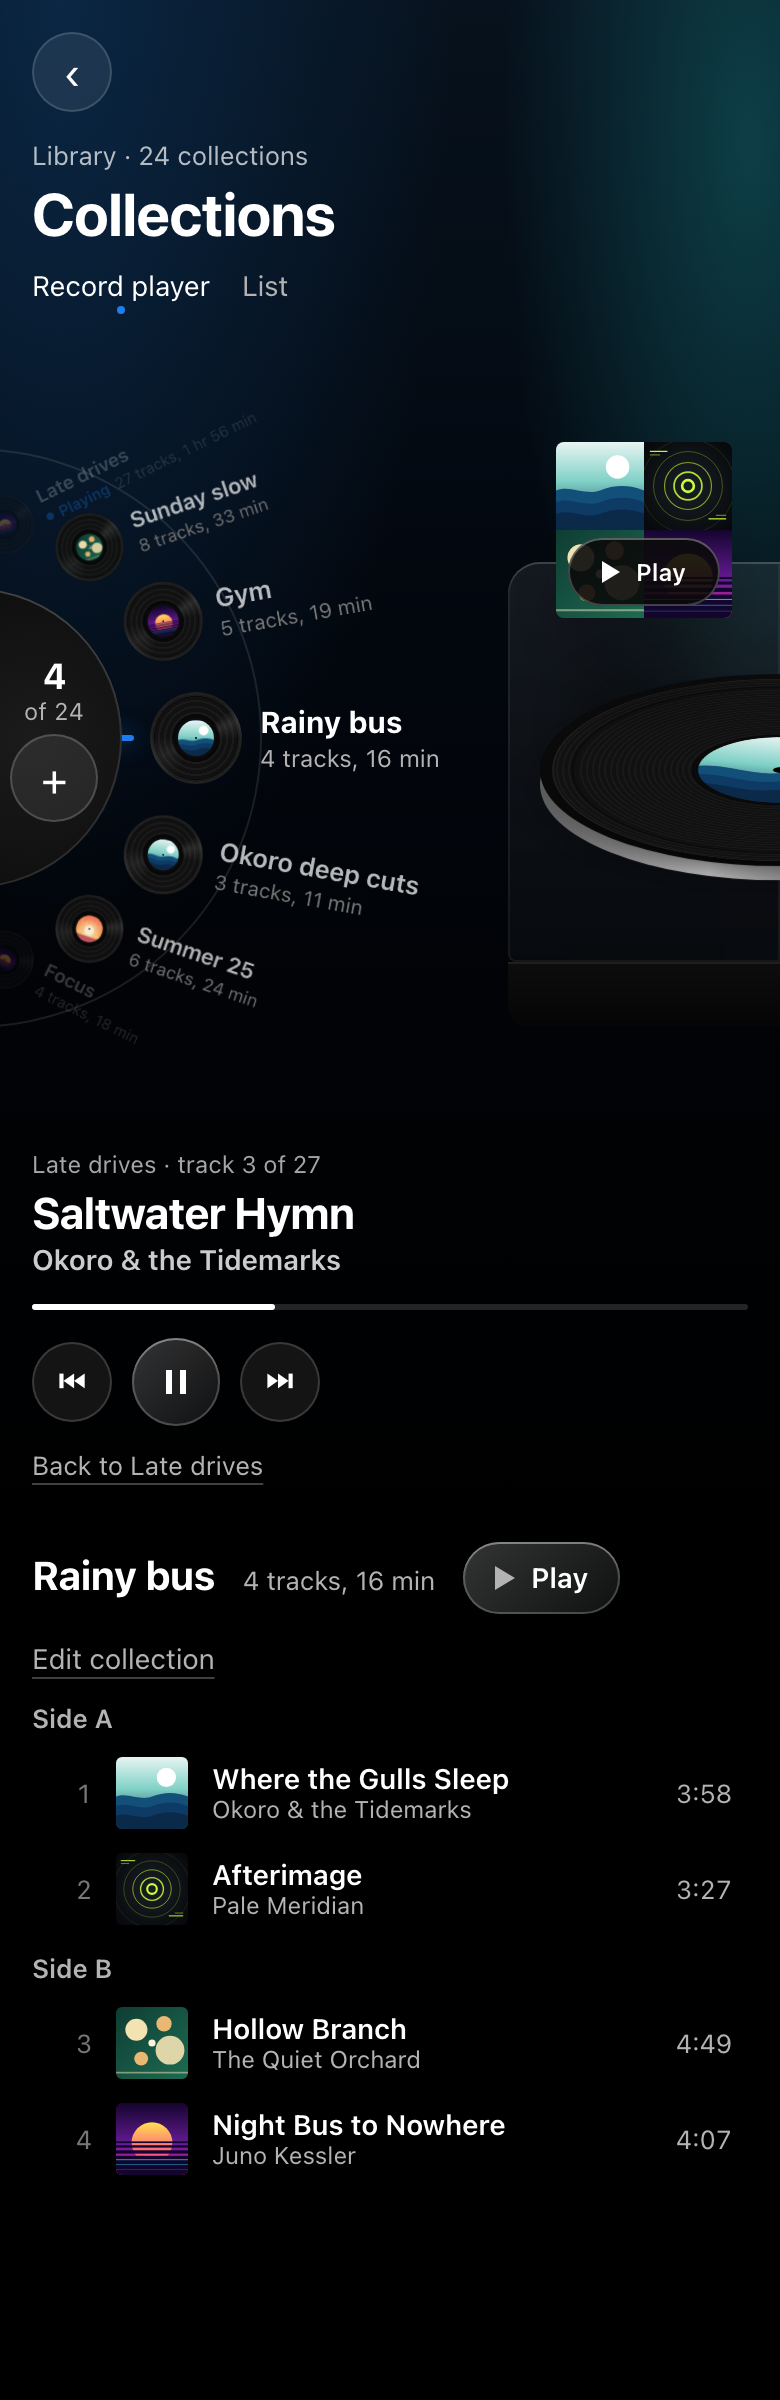
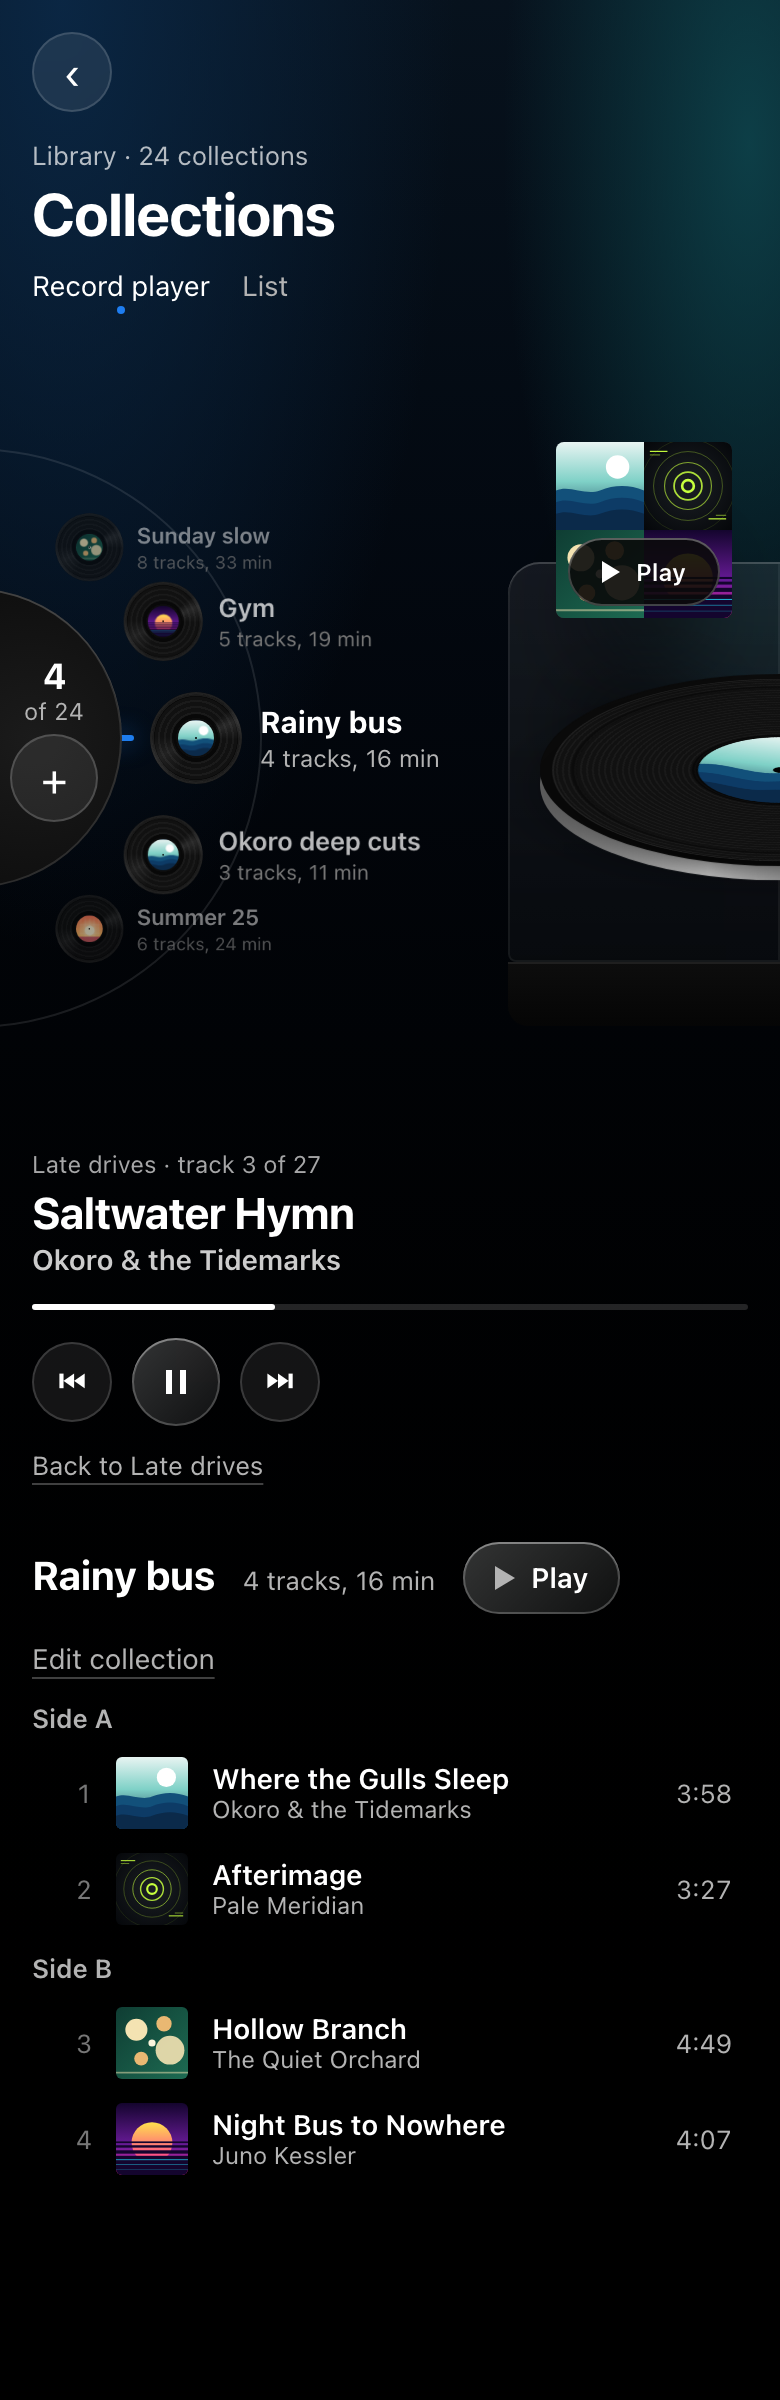
Plan #339: the wheel's rows stay level
The owner asked for the rows to read left to right instead of leaning
with the dial; they still follow its curve. Far rows fade sooner so they
don't crowd. Screens updated.

diff --git a/docs/plans/339-collections.md b/docs/plans/339-collections.md
@@ -176,8 +176,8 @@ Recorded on #339 (comment of 23 Oct).
   - `*-spines`, `*-crate`, `*-ledge`, `*-turntable` and `*-plain` are the variants explored on the way, kept for the record.
 - **The wheel:** rows on the right half of a dial whose hub sits on the left edge. A row is a small record (72 on the Mac, 46
   on the iPhone) with the collection's first cover as its label, then the name (20 / 15, white) and "27 tracks, 1 hr 56 min"
-  on the dark page, never over artwork. Each step round is 0.87 of the last, rows lean a little with the dial and fade past
-  about 60° from the front, so about nine show at once. The playing collection's record turns and its row says "Playing" or
+  on the dark page, never over artwork. Each step round is 0.87 of the last. Rows follow the dial's curve but stay level,
+  reading left to right (owner, 23 Oct), and fade past about 50° from the front, so about seven show at once. The playing collection's record turns and its row says "Playing" or
   "Paused" in the accent colour. The hub shows "5 of 24", ▲ and ▼ (Mac) and a + for a new collection, all 44 buttons. A thin
   ring and an accent notch point at the turntable.
 - **The turntable:** a deck in the app's glass, the platter seen at an angle (a circle flattened to an ellipse, no 3D library),
